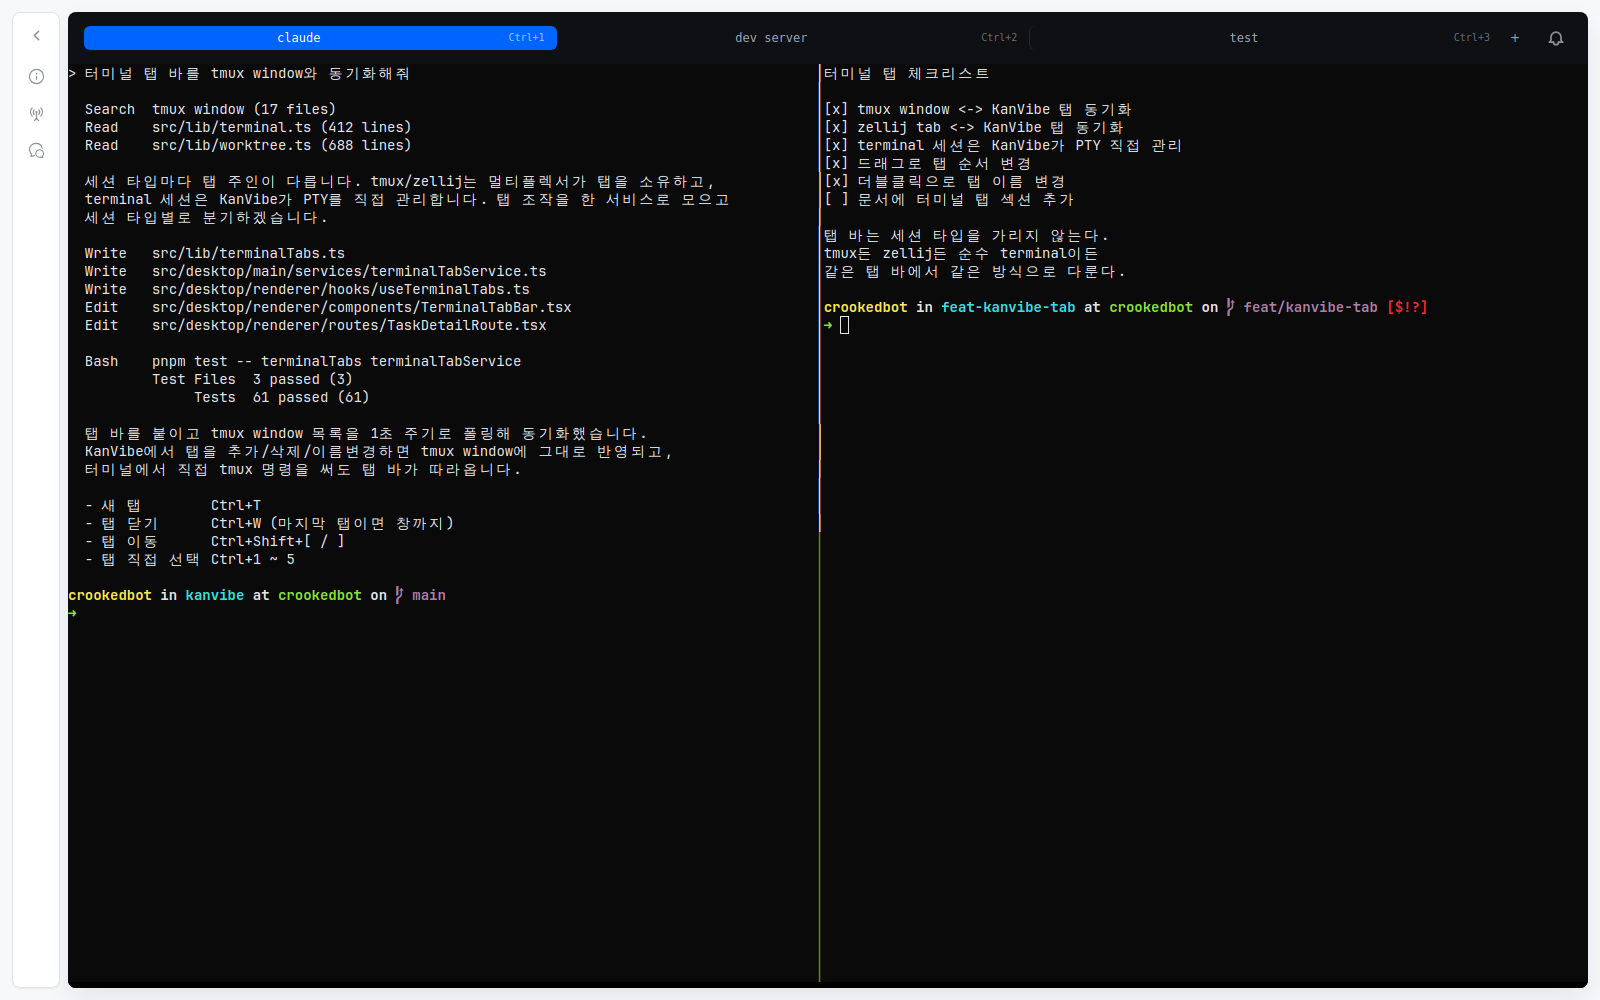
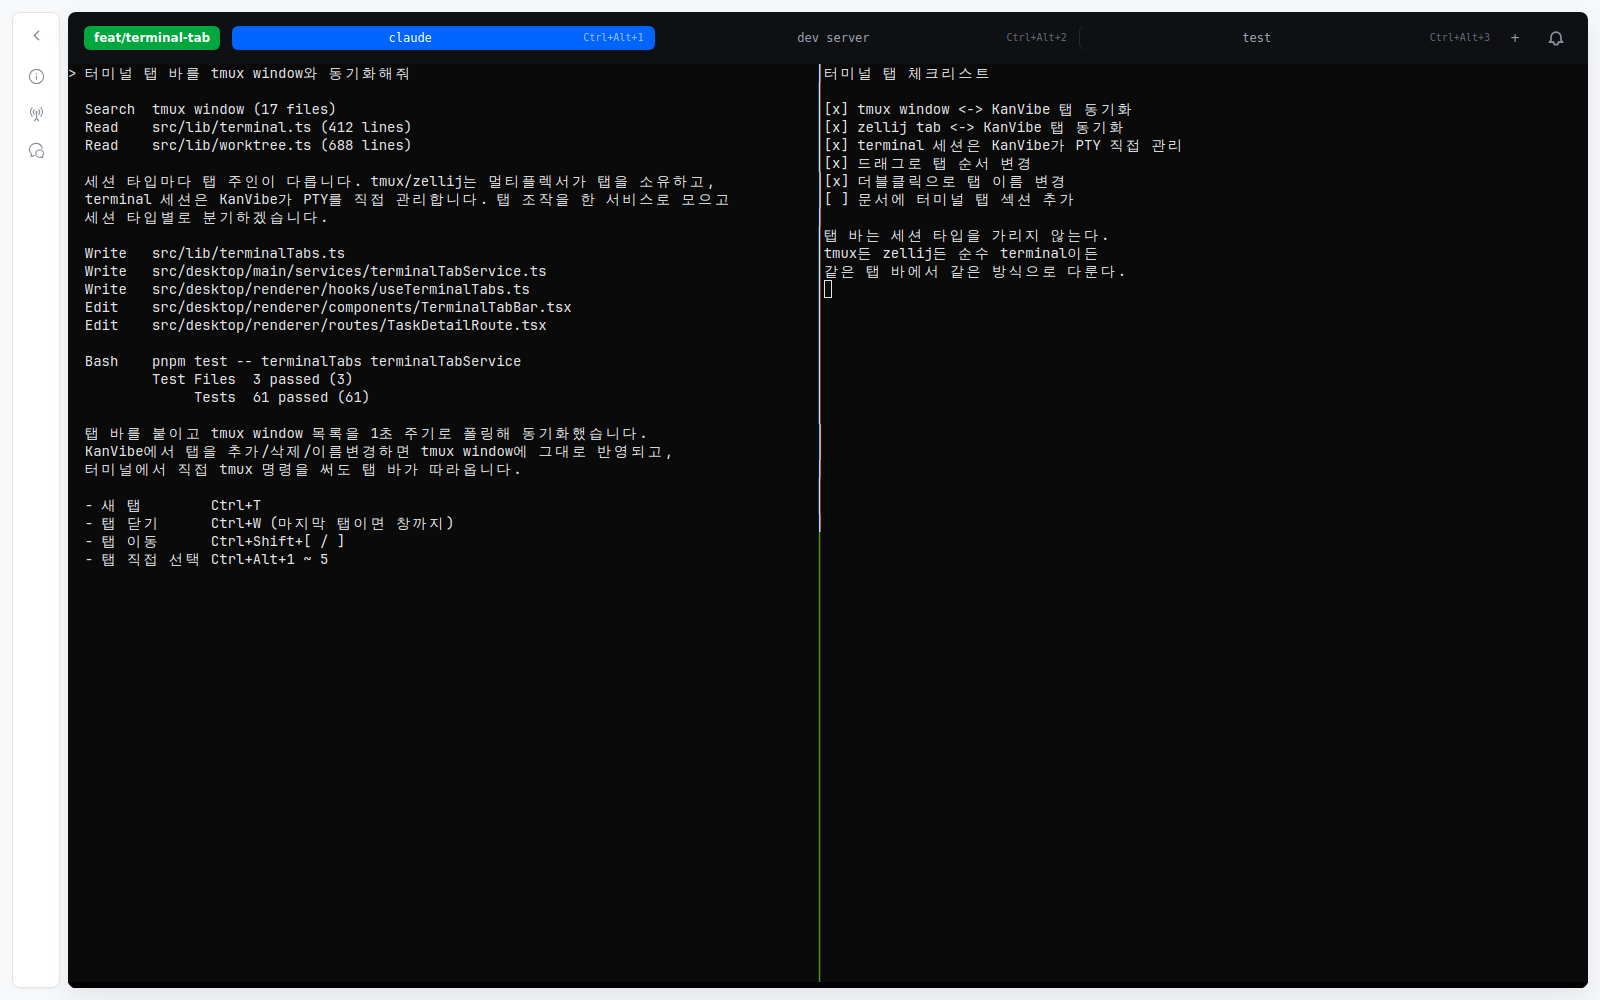
modify(terminal): 배지에 태스크명만 표시
프로젝트명을 제거하고 실제 Electron 화면으로 docs-site 스크린샷을 갱신한다.

diff --git a/src/desktop/renderer/routes/TaskDetailRoute.tsx b/src/desktop/renderer/routes/TaskDetailRoute.tsx
@@ -828,9 +828,6 @@ export default function TaskDetailRoute() {
   const dockItemsRef = useRef<TaskDetailDockItem[]>([]);
   const commonTranslationsRef = useRef(tc);
   const hasTerminal = !!(state?.task.sessionType && state.task.sessionName);
-  const terminalTaskContext = state?.task.project
-    ? `${state.task.project.name} > ${state.task.title}`
-    : state?.task.title ?? "";
   const terminalTabs = useTerminalTabs({
     taskId: id ?? "",
     sessionType: (state?.task.sessionType as SessionType | undefined) ?? null,
@@ -1560,10 +1557,10 @@ export default function TaskDetailRoute() {
             <div className="bg-terminal-chrome flex items-center gap-3 px-4 py-2.5 shrink-0">
               <span
                 data-testid="terminal-task-context"
-                title={terminalTaskContext}
+                title={state.task.title}
                 className="max-w-64 shrink-0 truncate rounded-md bg-green-600 px-2.5 py-1 text-xs font-semibold text-white"
               >
-                {terminalTaskContext}
+                {state.task.title}
               </span>
               {terminalTabs.tabs.length > 0 ? (
                 <TerminalTabBar

diff --git a/src/desktop/renderer/routes/__tests__/TaskDetailRoute.test.tsx b/src/desktop/renderer/routes/__tests__/TaskDetailRoute.test.tsx
@@ -681,7 +681,7 @@ describe("TaskDetailRoute", () => {
     expect(mocks.getTaskById).toHaveBeenCalledTimes(taskLoadCountBeforeClose);
   });
 
-  it("터미널 탭 왼쪽에 프로젝트와 태스크 이름 배지를 항상 표시한다", async () => {
+  it("터미널 탭 왼쪽에 태스크 이름 배지를 항상 표시한다", async () => {
     mocks.getTaskById.mockResolvedValue({
       id: "task-1",
       title: "fix tab task name",
@@ -702,8 +702,8 @@ describe("TaskDetailRoute", () => {
     render(<TaskDetailRoute />);
 
     const taskContextBadge = await screen.findByTestId("terminal-task-context");
-    expect(taskContextBadge.textContent).toBe("kanvibe > fix tab task name");
-    expect(taskContextBadge.getAttribute("title")).toBe("kanvibe > fix tab task name");
+    expect(taskContextBadge.textContent).toBe("fix tab task name");
+    expect(taskContextBadge.getAttribute("title")).toBe("fix tab task name");
     expect(taskContextBadge.className).toContain("bg-green-600");
     expect(taskContextBadge.className).toContain("shrink-0");
     expect(taskContextBadge.className).toContain("truncate");
